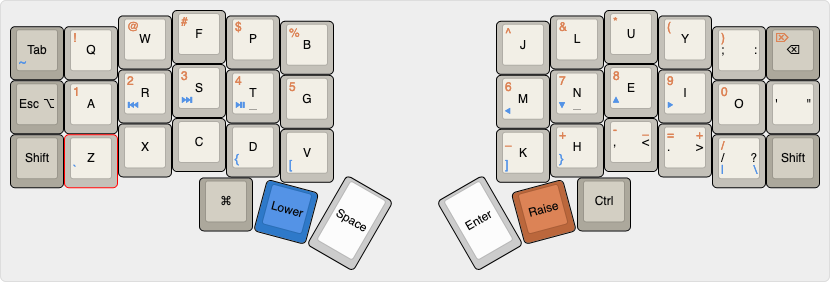
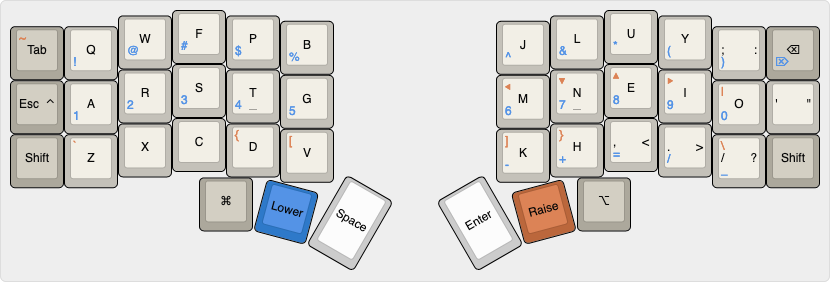
adjustments

diff --git a/README.md b/README.md
@@ -5,7 +5,7 @@ revision: "1.0.0"
 ---
 
 # Ergonomic keyboard layout design
-[[media/keyboard-layout.png]]
+![layout](media/keyboard-layout.png)
 
 [keyboard-layout-editor json](media/keyboard-layout.json)
 
@@ -25,7 +25,7 @@ Create an ergonomic keyboard layout design with the following goals:
     2. Arrangement of numbers and symbols rows
 
 ## Board, switches, and key caps
-* PCB - Corne ([crkbd](https://github.com/foostan/crkbd)) 3x6+3
+* PCB - Corne ([crkbd](https://github.com/foostan/crkbd)) 3×6+3
 * Switches - MX hot-swappable
     * Alpha keys (excluding pinky finger), space, and enter keys - Boba U4 tactile 68g - 26 total
     * Pinky alpha keys, and tap-able modifiers - Boba U4 tactile 62g - 10 total
@@ -51,31 +51,36 @@ Dual shift for proper capitalization by the opposite hand. Both shifts act as a 
 on double tap.
 
 #### Escape key
-Standalone caps lock key is removed in favor of a dual function key: `esc` on tap, MacOS option (`⌥`) on hold.
+Standalone caps lock key is removed in favor of a dual function key: `esc` on tap, MacOS control (`⌃`) on hold.
 
-### Raise layer
+### Lower layer
 Optimized for numbers and symbols. Contain standard number row on home row, and standard symbol row above the number
 row. Have dedicated math symbols such as addition, subtraction, division, and equality. Also contains dedicated delete
 key instead of backspace.
 
-### Lower layer
-Optimized for programming. Contains `vim` style navigation on `mnei` (to retain `hjkl` muscle memory), as well as coding
-symbols like pipe (`|`), tilde (`~`) is located on `tab` as in many 60% keyboards, backtick (`\``) on `Z`, as well as curly braces (`{}`) and square brackets
-(`[]`) on dedicated index fingers as they are used widely.
+### Raise layer
+Optimized for programming. Contains `vim` style navigation on `mnei` (to retain `hjkl` muscle memory), as well as
+allowing single hand navigation. Widely used symbols such as pipe (`|`), tilde (`~`), backslash (`\`) and backtick (\`) - are dedicated.
+Support for curly braces (`{}`) and square braces (`[]`) on dedicated index fingers as they are used widely.
 
-The pipe and backslash are reversed from traditional keyboard. Pipe is default, while backslash is under shift.
+Tilde is on tab because many 60% keyboard put it there.
 
-Audio controls are under the left hand home row, for fast play/pause and navigation.
+Backtick is on `Z` because there is a variation of the Apple Magic Keyboard where the backtick is between left shift and
+`Z`.
 
 ## What's missing?
+* Find a good combo for em-dash (`—`) and en-dash (`–`)
 * RGB controls
+* Audio controls
 * F keys
 * `PgUp`, `PgDown`, `Home`, and `End` keys
 * Dedicated `Hyper` key
 * Dedicated mouse keys
-* `Ctrl` key on a layer to allow `Command+Option+Control` style shortcuts (might be solved with Hyper key)
+* Find a way to have complex shortcuts which include all 3 modifiers - `Command+Option+Control` (might be solved with
+    Hyper key)
+* Allocate one thumb key for languages switching (to Russian and Hebrew) on double tap (similar to the MacOS Globe Key)
 
 ## Acknowledgements
 This layout was created for my needs. I'll continue to optimize it to suit my needs. It might not be suited for you.
 Feel free to adopt and modify it according to your needs. If you find a better layout, I'd appreciate if you will share it
-with me as well [contact[at]yieldcode.blog](mailto:contact@yieldcode.blog).
+with me as well [contact[at]kudmitry.com](mailto:contact@kudmitry.com).
